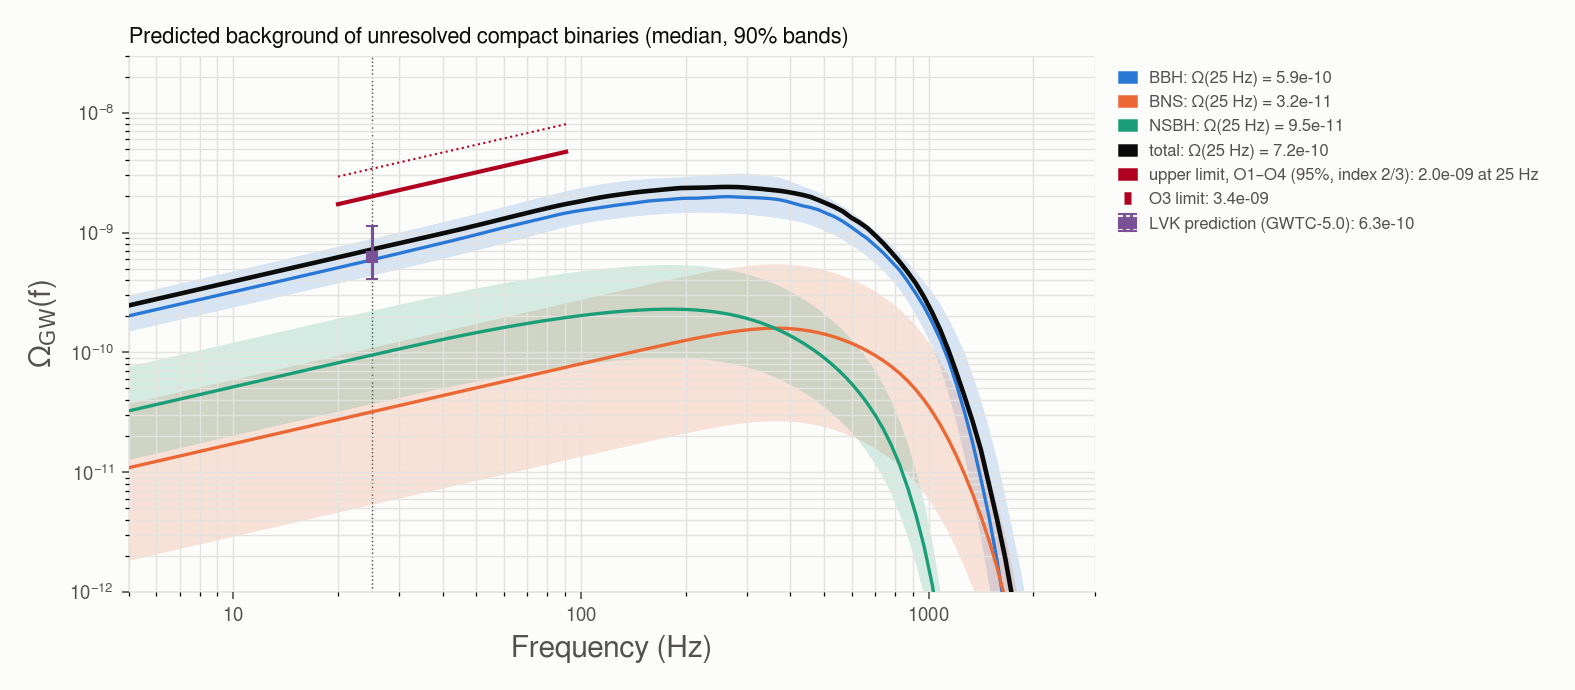
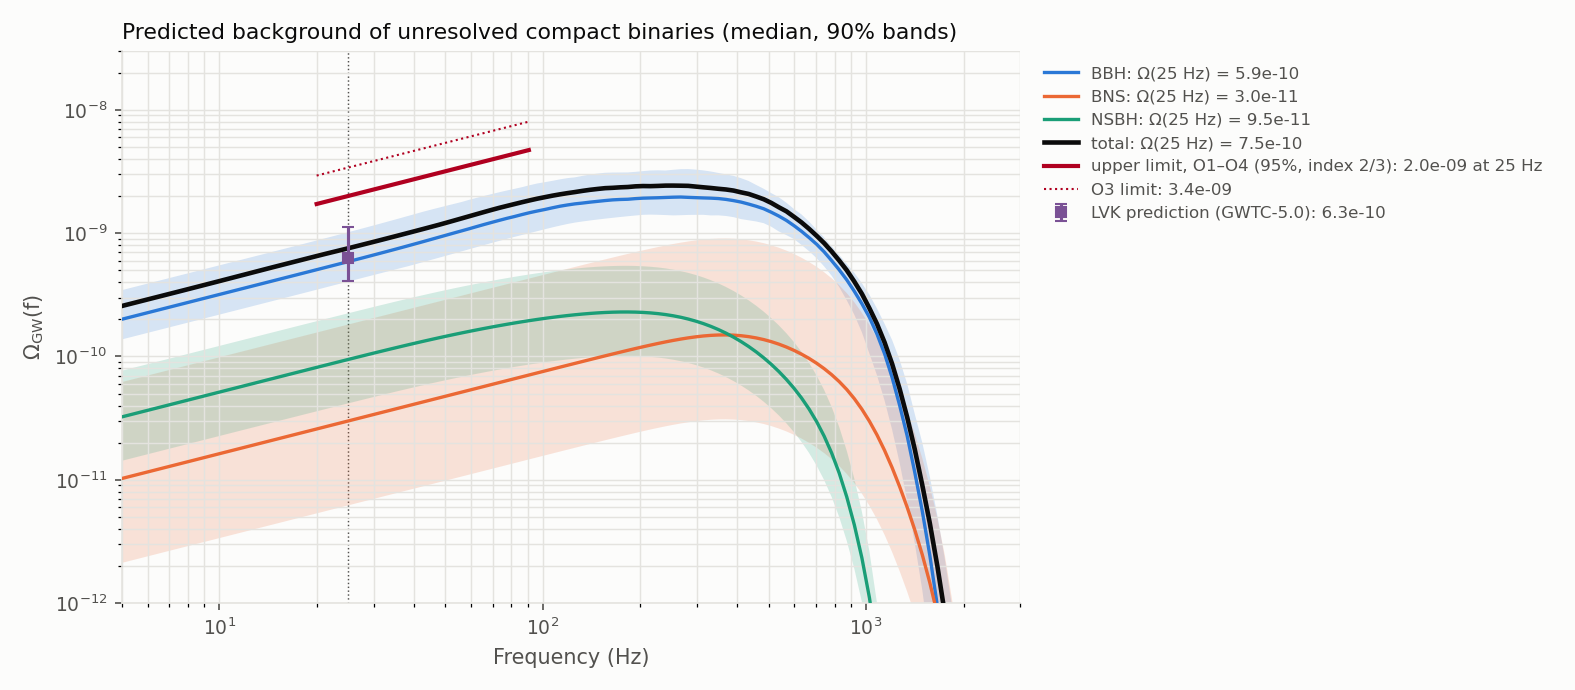
docs stochastic: table and figure from one run (PLP spectral-siren posterior of GWTC-4.0, gwtc5 rates, 200 draws, high-z sfr): BBH 5.9, BNS 0.30, NSBH 0.95, total 7.5 (5.3-12.0) x 1e-10 at 25 Hz; the earlier figure (total 7.2) came from a different run than the table; note under the table: the total

Changed region(s): [[0.0, 0.0304, 0.9956, 0.9739], [0.0933, 0.3043, 0.1556, 0.3348]]

diff --git a/docs/modes/stochastic.md b/docs/modes/stochastic.md
@@ -87,13 +87,17 @@ proportion:
 
 | Population | Ω_GW(25 Hz), median (90%) |
 |---|---|
-| BBH | 6.0 × 10⁻¹⁰ (4.3–9.3 × 10⁻¹⁰) |
+| BBH | 5.9 × 10⁻¹⁰ (4.1–10.2 × 10⁻¹⁰) |
 | BNS | 0.3 × 10⁻¹⁰ (0.06–1.8 × 10⁻¹⁰) |
-| NSBH | 0.9 × 10⁻¹⁰ (0.4–2.2 × 10⁻¹⁰) |
-| **total** | **7.5 × 10⁻¹⁰ (5.5–11.7 × 10⁻¹⁰)** |
+| NSBH | 0.95 × 10⁻¹⁰ (0.4–2.2 × 10⁻¹⁰) |
+| **total** | **7.5 × 10⁻¹⁰ (5.3–12.0 × 10⁻¹⁰)** |
 | LVK prediction from GWTC-5.0 [\[85\]](../references.md#ref-85) | 6.3 (+5.0 / −2.2) × 10⁻¹⁰ |
 | upper limit, data through April 2025 [\[85\]](../references.md#ref-85) | ≤ 2.0 × 10⁻⁹ (95%, index 2/3) |
 | upper limit, O3 [\[86\]](../references.md#ref-86) | ≤ 3.4 × 10⁻⁹ |
+
+*The total is summed draw by draw, so its median (7.5) is not the sum of the medians (7.1): the BNS and NSBH
+parts are skewed to high values (log-normal rates with wide intervals; means ≈ 0.5 and 1.0 × 10⁻¹⁰), which raises
+the median of the sum.*
 
 The prediction agrees with the LVK one and lies a factor 2.7 below the current upper limit.
 
@@ -112,8 +116,8 @@ at z = 0.2 (`rates --sensitivity-release gwtc5`, median [90%]).
 
 | | Local rate (Gpc⁻³ yr⁻¹) | Whole Universe (z < 10), one every | z < 1, one every | Within 40 Mpc, one every | Detected per year | Ω_GW(25 Hz) |
 |---|---|---|---|---|---|---|
-| BBH | 25 at z = 0.2 | ~6 min (3.5–9) | ~70 min | — | ~96 (248 in 2.59 yr) | 6.0 × 10⁻¹⁰ |
-| NSBH | 33 [13, 67] | ~4 min (2–10) | ~40 min | ~110 yr (56–290) | ~1.5 (4 in 2.59 yr) | 0.9 × 10⁻¹⁰ |
+| BBH | 25 at z = 0.2 | ~6 min (3.5–9) | ~70 min | — | ~96 (248 in 2.59 yr) | 5.9 × 10⁻¹⁰ |
+| NSBH | 33 [13, 67] | ~4 min (2–10) | ~40 min | ~110 yr (56–290) | ~1.5 (4 in 2.59 yr) | 0.95 × 10⁻¹⁰ |
 | BNS | 26 [4, 87] | ~5 min (1.5–33) | ~50 min | ~140 yr (43–930) | ~0.4 (1 in 2.59 yr) | 0.3 × 10⁻¹⁰ |
 
 *90% ranges from the rate intervals (BNS, NSBH) or from 300 draws of the Madau–Dickinson shape of a Power Law
@@ -134,7 +138,7 @@ O3, O4a and O4b used by `rates` (FAR < 1/yr).*
 
 ## Systematics
 
-- **The rate beyond the detected events dominates.** With `--high-z posterior`, Ω_BBH(25 Hz) = 9.8 × 10⁻¹⁰:
+- **The rate beyond the detected events dominates.** With `--high-z posterior`, Ω_BBH(25 Hz) = 9.5 × 10⁻¹⁰:
   77% of it then comes from z > 1, where the fitted shape is only the prior's. The default ties that region
   to the star-formation history; neither is a measurement.
 - **The energy spectrum.** The Ajith et al. 2008 merger and ringdown overestimate the radiated energy

diff --git a/README.md b/README.md
@@ -794,7 +794,7 @@ gwtc_analysis area_law               # downloads 114 MB once
 
 - **BBH:** the Power Law + Peak or Multi Peak masses and the Madau–Dickinson rate shape of each draw of a spectral-siren posterior (`hubble_constant`), normalized to the BBH rate at z = 0.2 of the `rates` mode, with the inspiral–merger–ringdown spectrum of Ajith et al. 2008. Beyond the farthest detected events (z ≈ 1) the rate follows the star-formation history (`--high-z sfr`, default) or the fitted shape, there the prior's (`--high-z posterior`).
 - **BNS, NSBH:** the local rates of `rates`, the star-formation history, the inspiral spectrum up to the ISCO.
-- **Result (GWTC-4.0 posterior, rates of the default `gwtc5` release):** Ω_GW(25 Hz) = 7.5 × 10⁻¹⁰ (90%: 5.5–11.7 × 10⁻¹⁰), BBH 6.0 × 10⁻¹⁰. The LVK prediction from GWTC-5.0 is 6.3 (+5.0 / −2.2) × 10⁻¹⁰, and the upper limit from the data through April 2025 is 2.0 × 10⁻⁹ ([arXiv:2608.23477](https://arxiv.org/abs/2608.23477)): a factor 2.7 below detection.
+- **Result (GWTC-4.0 posterior, rates of the default `gwtc5` release):** Ω_GW(25 Hz) = 7.5 × 10⁻¹⁰ (90%: 5.3–12.0 × 10⁻¹⁰), BBH 5.9 × 10⁻¹⁰. The LVK prediction from GWTC-5.0 is 6.3 (+5.0 / −2.2) × 10⁻¹⁰, and the upper limit from the data through April 2025 is 2.0 × 10⁻⁹ ([arXiv:2608.23477](https://arxiv.org/abs/2608.23477)): a factor 2.7 below detection.
 
 ```bash
 gwtc_analysis rates --out-rates merger_rates.tsv
